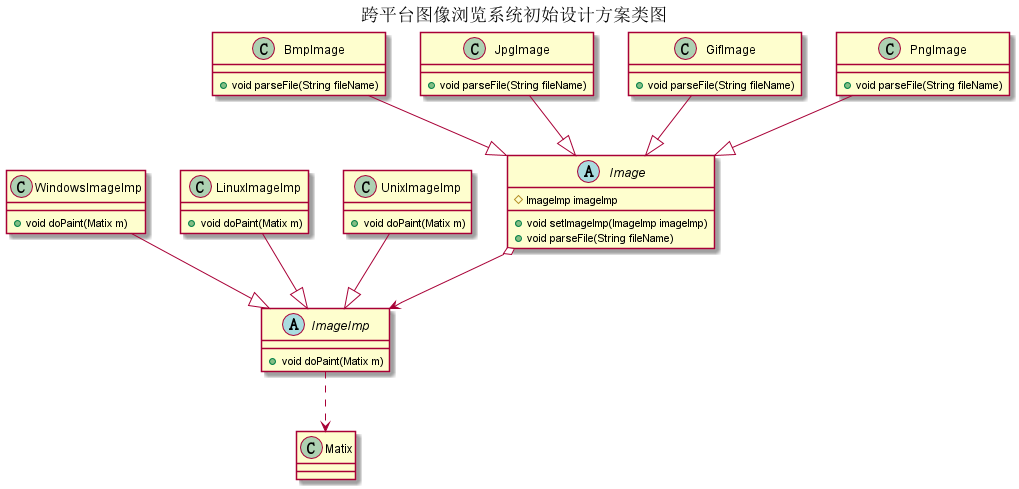
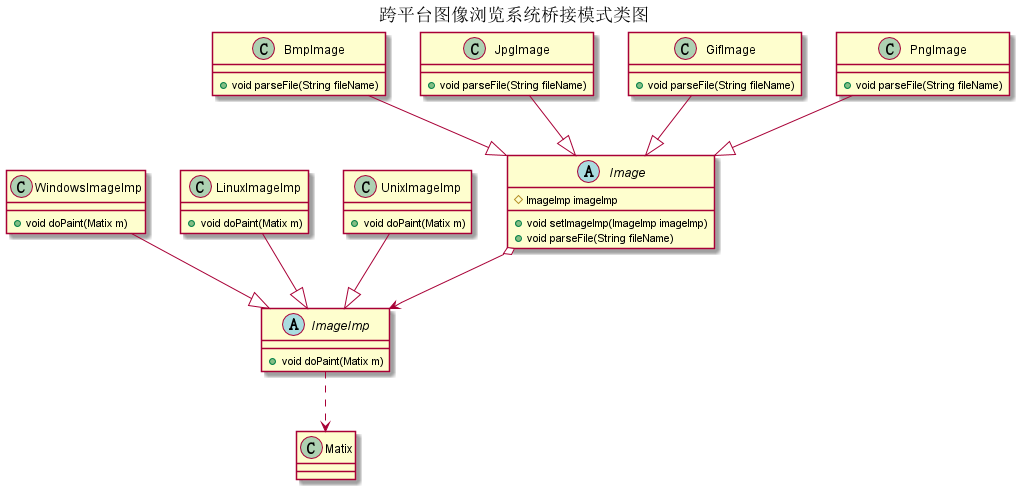
add bridge pattern

Changed region(s): [[0.3346, 0.0, 0.6693, 0.0613]]

diff --git a/后端开发/Java/设计模式/设计模式之桥接模式.md b/后端开发/Java/设计模式/设计模式之桥接模式.md
@@ -11,7 +11,7 @@ tags: [设计模式,桥接模式]
 桥梁模式（Bridge Pattern）：将抽象和实现解耦，使得两者可以独立地变化。
 
 ## 类图
-![桥接模式类图](https://github.com/morris131/morris-book/raw/master/%E5%90%8E%E7%AB%AF%E5%BC%80%E5%8F%91/Java/%E8%AE%BE%E8%AE%A1%E6%A8%A1%E5%BC%8F/images/%E5%AF%B9%E8%B1%A1%E9%80%82%E9%85%8D%E5%99%A8%E6%A8%A1%E5%BC%8F%E7%B1%BB%E5%9B%BE.png)
+![桥接模式类图](https://github.com/morris131/morris-book/raw/master/%E5%90%8E%E7%AB%AF%E5%BC%80%E5%8F%91/Java/%E8%AE%BE%E8%AE%A1%E6%A8%A1%E5%BC%8F/images/%E6%A1%A5%E6%8E%A5%E6%A8%A1%E5%BC%8F%E7%B1%BB%E5%9B%BE.png)
 
 桥接模式中的4个角色：
 - Abstraction（抽象化角色）：定义出该角色的行为，同时保存一个对实现化角色的引用，该角色一般是抽象类。
